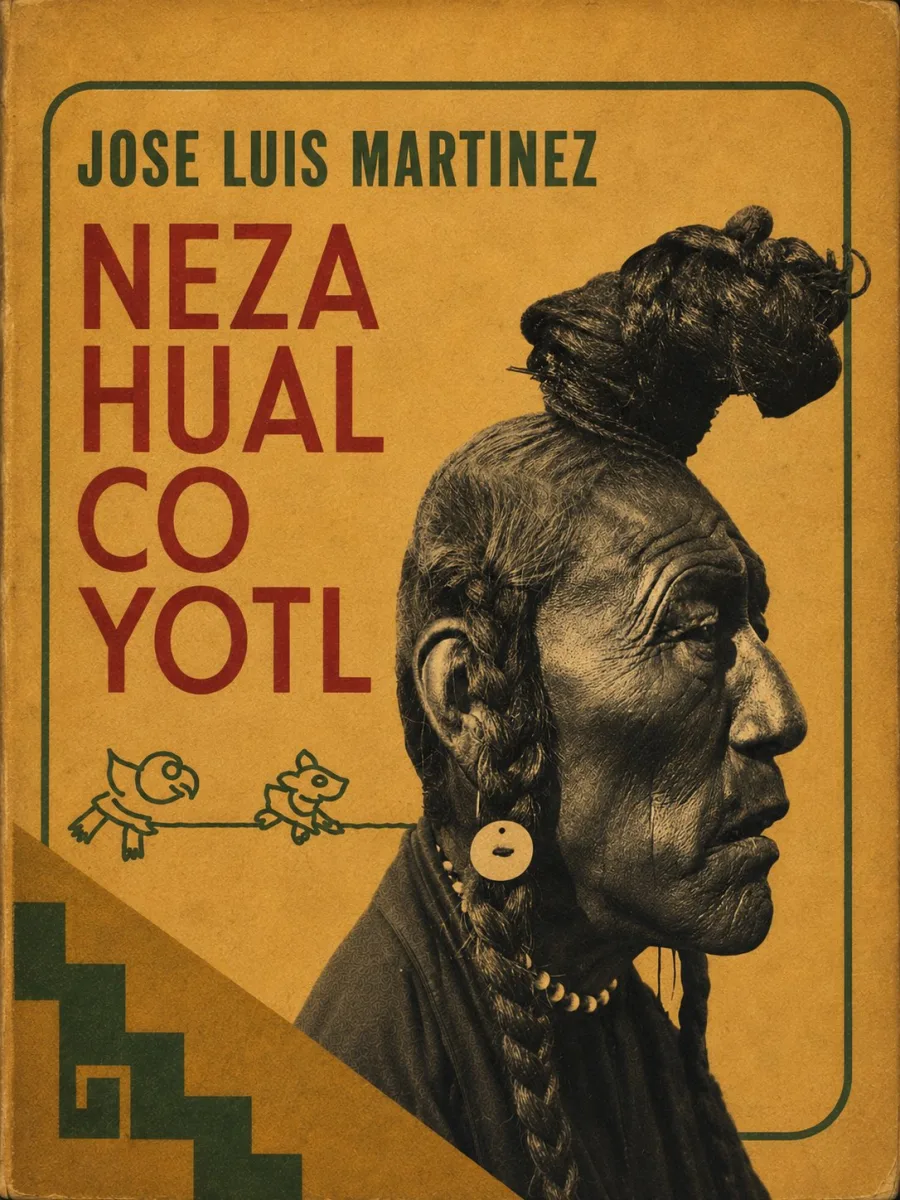
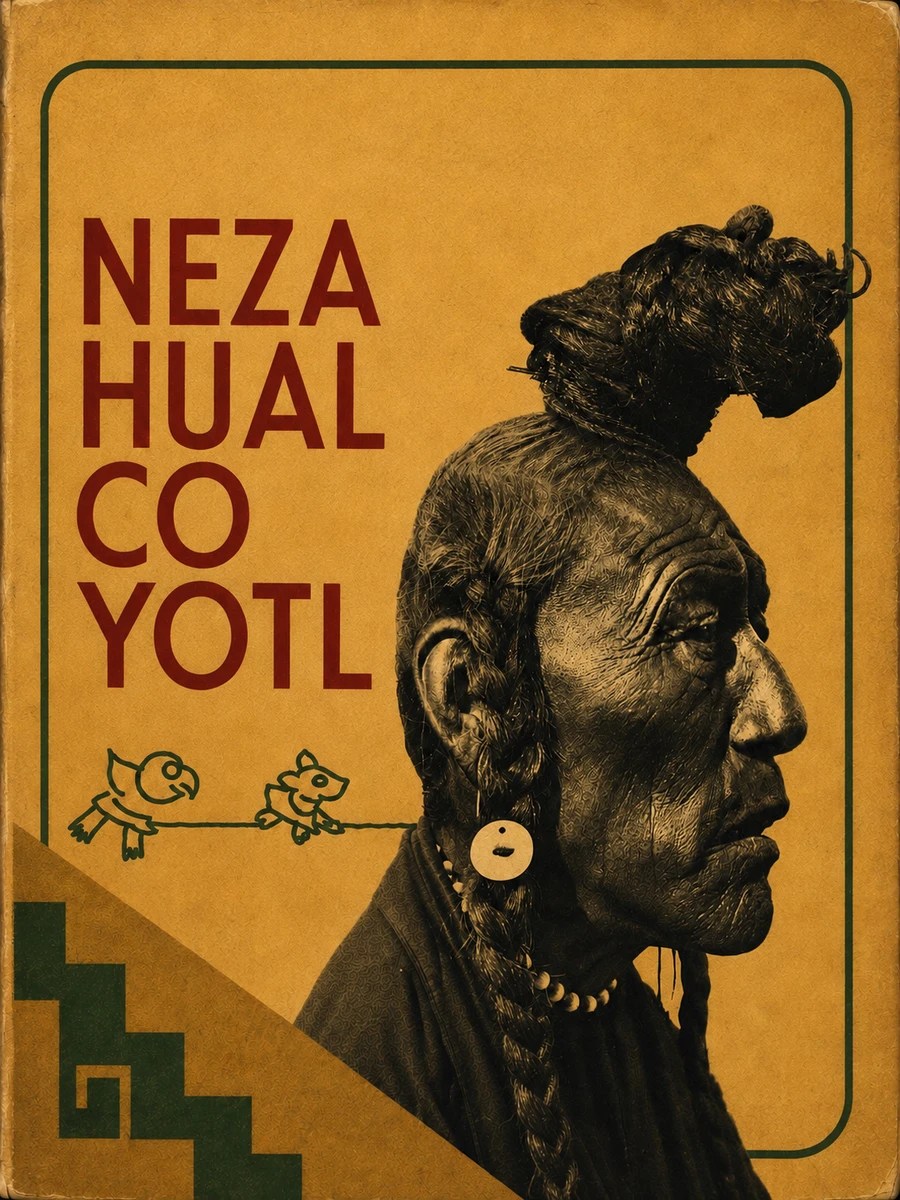
Update Nezahualcóyotl cover art and reattribute to the poet himself
New poster art converted to WebP. Byline changed from José Luis Martínez
(a modern biographer) to El propio Nezahualcóyotl, and the synopsis on
both the detail page and OLA 1 listing rewritten to frame the audiobook
as his own náhuatl poetry rather than a biography about him. Cache-busted
the image URL since the filename is unchanged.

diff --git a/Audiolibros/titulos/nezahualcoyotl.html b/Audiolibros/titulos/nezahualcoyotl.html
@@ -41,7 +41,7 @@
     <div class="book-header-text">
         <p class="kicker">Audiolibros · Primera Ola</p>
         <h1>Nezahualcóyotl</h1>
-        <p class="subtitle">José Luis Martínez</p>
+        <p class="subtitle">El propio Nezahualcóyotl</p>
     </div>
 
     <div class="coyote-signature" aria-hidden="true">
@@ -134,7 +134,7 @@
         <svg class="x" style="width:24px;height:24px" viewBox="0 0 24 24">
             <path fill="white" d="M19,6.41L17.59,5L12,10.59L6.41,5L5,6.41L10.59,12L5,17.59L6.41,19L12,13.41L17.59,19L19,17.59L13.41,12L19,6.41Z" />
         </svg>
-        <img fetchpriority="high" decoding="async" src="../../book_covers/nezahualcoyotl.webp" alt="Nezahualcóyotl">
+        <img fetchpriority="high" decoding="async" src="../../book_covers/nezahualcoyotl.webp?v=2" alt="Nezahualcóyotl">
         <div class="controls">
             <div class="box">Escucha ahora</div>
         </div>
@@ -144,7 +144,7 @@
       <div class="panel-body">
         <div class="break"></div>
         <h1>SINOPSIS</h1>
-        <p>Biografía intelectual del rey-poeta de Texcoco (1402–1472), construida por José Luis Martínez a partir de testimonios históricos verosímiles. Recorre su infancia marcada por el asesinato de su padre, su exilio, su ascenso como gobernante dentro de la Triple Alianza, sus obras de ingeniería, y la poesía náhuatl por la que es recordado, meditando sobre el tiempo, la muerte y lo divino.</p>
+        <p>Selección de la poesía náhuatl de Nezahualcóyotl, el rey-poeta de Texcoco (1402–1472), en la que él mismo repasa su vida convulsa: la infancia marcada por el asesinato de su padre, el exilio, su ascenso como gobernante dentro de la Triple Alianza, sus obras de ingeniería, y las meditaciones sobre el tiempo, la muerte y lo divino por las que es recordado como una de las voces más profundas de la literatura prehispánica.</p>
 
         <div class="break"></div>
         <h1>CAPÍTULOS</h1>

diff --git a/Audiolibros/titulos/ola-1-slug.html b/Audiolibros/titulos/ola-1-slug.html
@@ -244,7 +244,7 @@
         </div>
 
         <div class="book">
-            <div class="book-placeholder"><img loading="lazy" decoding="async" class="book-cover" src="../../book_covers/nezahualcoyotl.webp" alt="Nezahualcóyotl"></div>
+            <div class="book-placeholder"><img loading="lazy" decoding="async" class="book-cover" src="../../book_covers/nezahualcoyotl.webp?v=2" alt="Nezahualcóyotl"></div>
             <div class="book-info">
                 <h3>Nezahualcóyotl</h3>
                 <span class="rating green">3.9/5 <span class="feather-tip"><img src="../../Images/quetzal-feather.svg" alt="Pluma de quetzal" class="rating-feather"></span></span>
@@ -252,7 +252,7 @@
             <a href="nezahualcoyotl.html" class="listen-btn">ESCUCHAR AHORA</a>
             <div class="review">
                 <h3>Resumen</h3>
-                <p>Biografía intelectual del rey-poeta de Texcoco (1402–1472), construida por José Luis Martínez a partir de testimonios históricos verosímiles. Recorre su infancia marcada por el asesinato de su padre, su exilio, su ascenso como gobernante dentro de la Triple Alianza, sus obras de ingeniería, y la poesía náhuatl por la que es recordado, meditando sobre el tiempo, la muerte y lo divino.</p>
+                <p>Selección de la poesía náhuatl de Nezahualcóyotl, el rey-poeta de Texcoco (1402–1472), en la que él mismo repasa su vida convulsa: la infancia marcada por el asesinato de su padre, el exilio, su ascenso como gobernante dentro de la Triple Alianza, sus obras de ingeniería, y las meditaciones sobre el tiempo, la muerte y lo divino por las que es recordado como una de las voces más profundas de la literatura prehispánica.</p>
             </div>
         </div>
 

diff --git a/book-catalog.js b/book-catalog.js
@@ -115,7 +115,7 @@
         { file: "monja-alferez.webp", title: "Historia de la Monja Alférez", slug: "historia-de-la-monja-alferez" },
         { file: "natural-historia-de-indias.webp", title: "Sumario de la Natural Historia de las Indias", slug: "sumario-de-la-natural-historia-de-las-indias" },
         { file: "naufragios.webp", title: "Naufragios", slug: "naufragios" },
-        { file: "nezahualcoyotl.webp", title: "Nezahualcóyotl", slug: "nezahualcoyotl" },
+        { file: "nezahualcoyotl.webp?v=2", title: "Nezahualcóyotl", slug: "nezahualcoyotl" },
         { file: "niebla.webp", title: "Niebla", slug: "niebla" },
         { file: "novelas-ejemplares.webp", title: "Novelas ejemplares", slug: "novelas-ejemplares" },
         { file: "nuestro-primer-cigarro.webp", title: "Nuestro primer cigarro", slug: "nuestro-primer-cigarro" },
